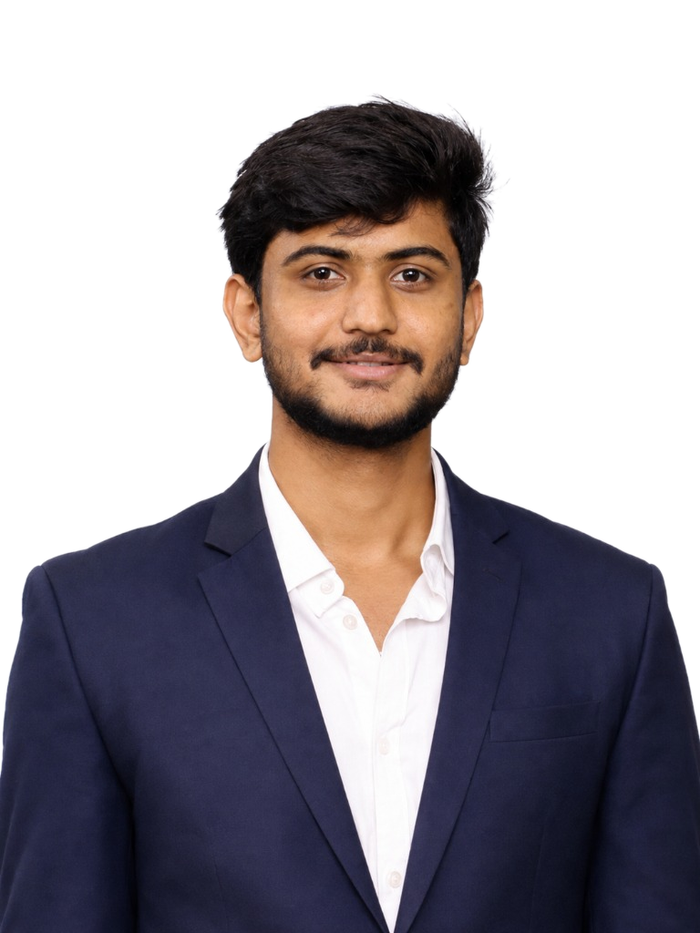
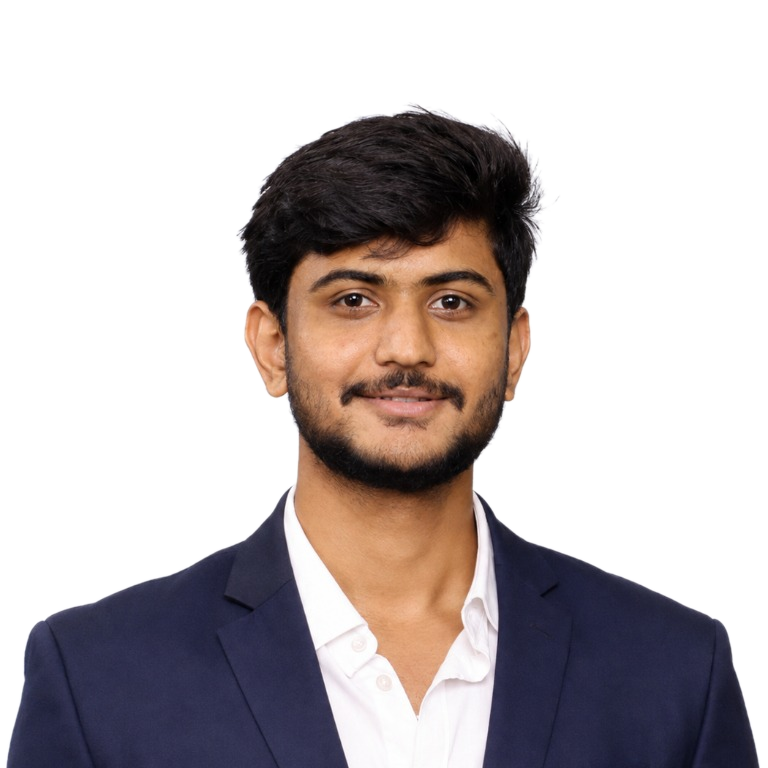
Format contact section into architectural grid and update profile image to genuine 1:1 square ratio

diff --git a/index.html b/index.html
@@ -146,7 +146,7 @@
             <span class="crop br" aria-hidden="true"></span>
             <picture>
               <source srcset="/assets/shrikant-cutout.webp" type="image/webp" />
-              <img src="/assets/shrikant-cutout.png" alt="Shrikant Jathar - AI Engineer" width="700" height="700" fetchpriority="high" loading="eager" decoding="async" />
+              <img src="/assets/shrikant-cutout.png" alt="Shrikant Jathar - AI Engineer" width="768" height="768" fetchpriority="high" loading="eager" decoding="async" />
             </picture>
             <span class="dim" aria-hidden="true"><span>Scale 1 : 1</span></span>
           </div>
@@ -734,51 +734,55 @@
           <p class="sec-intro">Hiring for an AI engineering role, or have an interesting challenge to discuss? Reach out directly.</p>
         </header>
 
-        <div class="contact-box">
-          <div class="mail">
-            <a class="mail-addr" id="email-text" href="mailto:shrikantjathar2005@gmail.com">shrikantjathar2005@gmail.com</a>
-            <button type="button" class="btn btn-line" id="copy-email-btn" aria-label="Copy email address to clipboard">
-              <span id="copy-email-label">Copy email</span>
-            </button>
-          </div>
-
-          <ul class="links">
-            <li>
-              <a href="https://github.com/shrikantjathar2005" target="_blank" rel="noopener noreferrer">
-                <span class="label">GitHub</span>
-                <span class="links-v">shrikantjathar2005 ↗</span>
-              </a>
-            </li>
-            <li>
-              <a href="https://linkedin.com/in/shrikant2005" target="_blank" rel="noopener noreferrer">
-                <span class="label">LinkedIn</span>
-                <span class="links-v">in/shrikant2005 ↗</span>
-              </a>
-            </li>
-            <li>
-              <a href="tel:+918208629414">
-                <span class="label">Phone</span>
-                <span class="links-v">+91 8208629414 ↗</span>
-              </a>
-            </li>
-            <li>
-              <a href="https://wa.me/918208629414" target="_blank" rel="noopener noreferrer">
-                <span class="label">WhatsApp</span>
-                <span class="links-v">+91 82086 29414 ↗</span>
-              </a>
-            </li>
-            <li>
-              <a href="https://github.com/shrikantjathar2023ainds" target="_blank" rel="noopener noreferrer">
-                <span class="label">GitHub (2)</span>
-                <span class="links-v">shrikantjathar2023ainds ↗</span>
-              </a>
-            </li>
-          </ul>
-
-          <p class="contact-status">
-            Available for full-time AI Engineer opportunities and internships. Based in Pune, open to hybrid, onsite, and remote roles.
-          </p>
+        <div class="mail">
+          <a class="mail-addr" id="email-text" href="mailto:shrikantjathar2005@gmail.com">shrikantjathar2005@gmail.com</a>
+          <button type="button" class="btn btn-line" id="copy-email-btn" aria-label="Copy email address to clipboard">
+            <span id="copy-email-label">Copy email</span>
+          </button>
         </div>
+
+        <ul class="links">
+          <li>
+            <a href="https://github.com/shrikantjathar2005" target="_blank" rel="noopener noreferrer">
+              <span class="label">GitHub</span>
+              <span class="links-v">shrikantjathar2005 <span class="arr" aria-hidden="true">↗</span></span>
+            </a>
+          </li>
+          <li>
+            <a href="https://linkedin.com/in/shrikant2005" target="_blank" rel="noopener noreferrer">
+              <span class="label">LinkedIn</span>
+              <span class="links-v">in/shrikant2005 <span class="arr" aria-hidden="true">↗</span></span>
+            </a>
+          </li>
+          <li>
+            <a href="tel:+918208629414">
+              <span class="label">Phone</span>
+              <span class="links-v">+91 8208629414 <span class="arr" aria-hidden="true">↗</span></span>
+            </a>
+          </li>
+          <li>
+            <a href="https://wa.me/918208629414" target="_blank" rel="noopener noreferrer">
+              <span class="label">WhatsApp</span>
+              <span class="links-v">+91 82086 29414 <span class="arr" aria-hidden="true">↗</span></span>
+            </a>
+          </li>
+          <li>
+            <a href="https://github.com/shrikantjathar2023ainds" target="_blank" rel="noopener noreferrer">
+              <span class="label">GitHub (2)</span>
+              <span class="links-v">shrikantjathar2023ainds <span class="arr" aria-hidden="true">↗</span></span>
+            </a>
+          </li>
+          <li>
+            <a href="mailto:shrikantjathar2005@gmail.com">
+              <span class="label">Email</span>
+              <span class="links-v">Direct Message <span class="arr" aria-hidden="true">↗</span></span>
+            </a>
+          </li>
+        </ul>
+
+        <p class="contact-status">
+          Available for full-time AI Engineer opportunities and internships. Based in Pune, open to hybrid, onsite, and remote roles.
+        </p>
       </div>
     </section>
   </main>

diff --git a/styles.css b/styles.css
@@ -376,9 +376,9 @@ a {
 }
 .portrait img {
   object-fit: cover;
-  object-position: 50% 12%;
+  object-position: center bottom;
   filter: var(--photo);
-  padding: 12px 12px 0;
+  padding: 0;
   transition: transform 0.3s ease, filter 0.3s ease;
 }
 .portrait:hover img {
@@ -1117,13 +1117,10 @@ figcaption .label {
 }
 
 /* ==========================================================================
-   CONTACT (05 CONTACT)
+   CONTACT (05 CONTACT) - Architectural Blueprint Grid
    ========================================================================== */
-.contact-box {
-  background: var(--node);
-  border: 1px solid var(--line);
-  padding: clamp(32px, 5vw, 64px);
-  border-radius: 4px;
+.contact .sec-head {
+  margin-bottom: 40px;
 }
 
 .mail {
@@ -1131,59 +1128,117 @@ figcaption .label {
   align-items: center;
   flex-wrap: wrap;
   gap: 16px 24px;
-  margin-bottom: 40px;
+  margin-bottom: 56px;
 }
 .mail-addr {
-  font-family: var(--f-mono);
-  font-size: clamp(1.5rem, 1.2rem + 1.2vw, 2.4rem);
+  font-family: var(--f-display);
+  font-size: clamp(1.45rem, 0.9rem + 2.6vw, 2.9rem);
   color: var(--ink);
   font-weight: 600;
   letter-spacing: -0.02em;
-  word-break: break-all;
+  border-bottom: 2px solid var(--ink);
+  overflow-wrap: anywhere;
+  text-decoration: none;
+  transition: color 0.2s, border-color 0.2s;
 }
 .mail-addr:hover {
   color: var(--accent);
+  border-color: var(--accent);
 }
 
 .links {
-  list-style: none;
-  display: grid;
-  grid-template-columns: repeat(auto-fit, minmax(180px, 1fr));
-  gap: 16px;
+  border-top: 1px solid var(--ink);
+  grid-template-columns: repeat(3, minmax(0, 1fr));
   margin: 0;
   padding: 0;
+  list-style: none;
+  display: grid;
+}
+.links li {
+  border-bottom: 1px solid var(--line);
+}
+.links li:not(:nth-child(3n+1)) {
+  border-left: 1px solid var(--line);
 }
 .links a {
-  display: flex;
-  flex-direction: column;
-  padding: 16px;
-  background: var(--paper);
-  border: 1px solid var(--line-2);
-  border-radius: 4px;
-  transition: all 0.2s ease;
+  display: grid;
+  gap: 6px;
+  min-height: 76px;
+  padding: 16px 20px;
+  text-decoration: none;
+  background: transparent;
+  border: none;
+  border-radius: 0;
+  transition: background-color 0.2s;
 }
 .links a:hover {
-  border-color: var(--ink);
-  transform: translateY(-2px);
-  box-shadow: 0 4px 12px rgba(0, 0, 0, 0.04);
+  background: var(--accent-soft);
+  transform: none;
+  box-shadow: none;
 }
-.links .label {
-  margin-bottom: 6px;
+.links a .label {
+  font-family: var(--f-mono);
+  font-size: 11px;
+  text-transform: uppercase;
+  letter-spacing: 0.08em;
+  color: var(--muted);
+  margin-bottom: 0;
 }
 .links-v {
   font-family: var(--f-mono);
   font-size: 14.5px;
   color: var(--ink);
   font-weight: 500;
+  display: flex;
+  align-items: center;
+  justify-content: space-between;
+  gap: 8px;
+  white-space: nowrap;
+}
+.links-v .arr {
+  color: var(--muted);
+  font-family: var(--f-text);
+  font-size: 15px;
+  transition: transform 0.2s ease, color 0.2s ease;
+}
+.links a:hover .links-v .arr {
+  transform: translate(2px, -2px);
+  color: var(--accent);
 }
 
 .contact-status {
   margin-top: 32px;
   font-family: var(--f-mono);
-  font-size: 13px;
+  font-size: 14px;
+  line-height: 1.6;
   color: var(--muted);
-  border-top: 1px solid var(--line-2);
-  padding-top: 20px;
+  border-top: none;
+  padding-top: 0;
+}
+
+@media (max-width: 860px) {
+  .links {
+    grid-template-columns: repeat(2, minmax(0, 1fr));
+  }
+  .links li:not(:nth-child(3n+1)) {
+    border-left: 0;
+  }
+  .links li:nth-child(2n) {
+    border-left: 1px solid var(--line);
+  }
+}
+
+@media (max-width: 580px) {
+  .links {
+    grid-template-columns: 1fr;
+  }
+  .links li:nth-child(2n) {
+    border-left: 0;
+  }
+  .links-v {
+    white-space: normal;
+    word-break: break-all;
+  }
 }
 
 /* ==========================================================================
